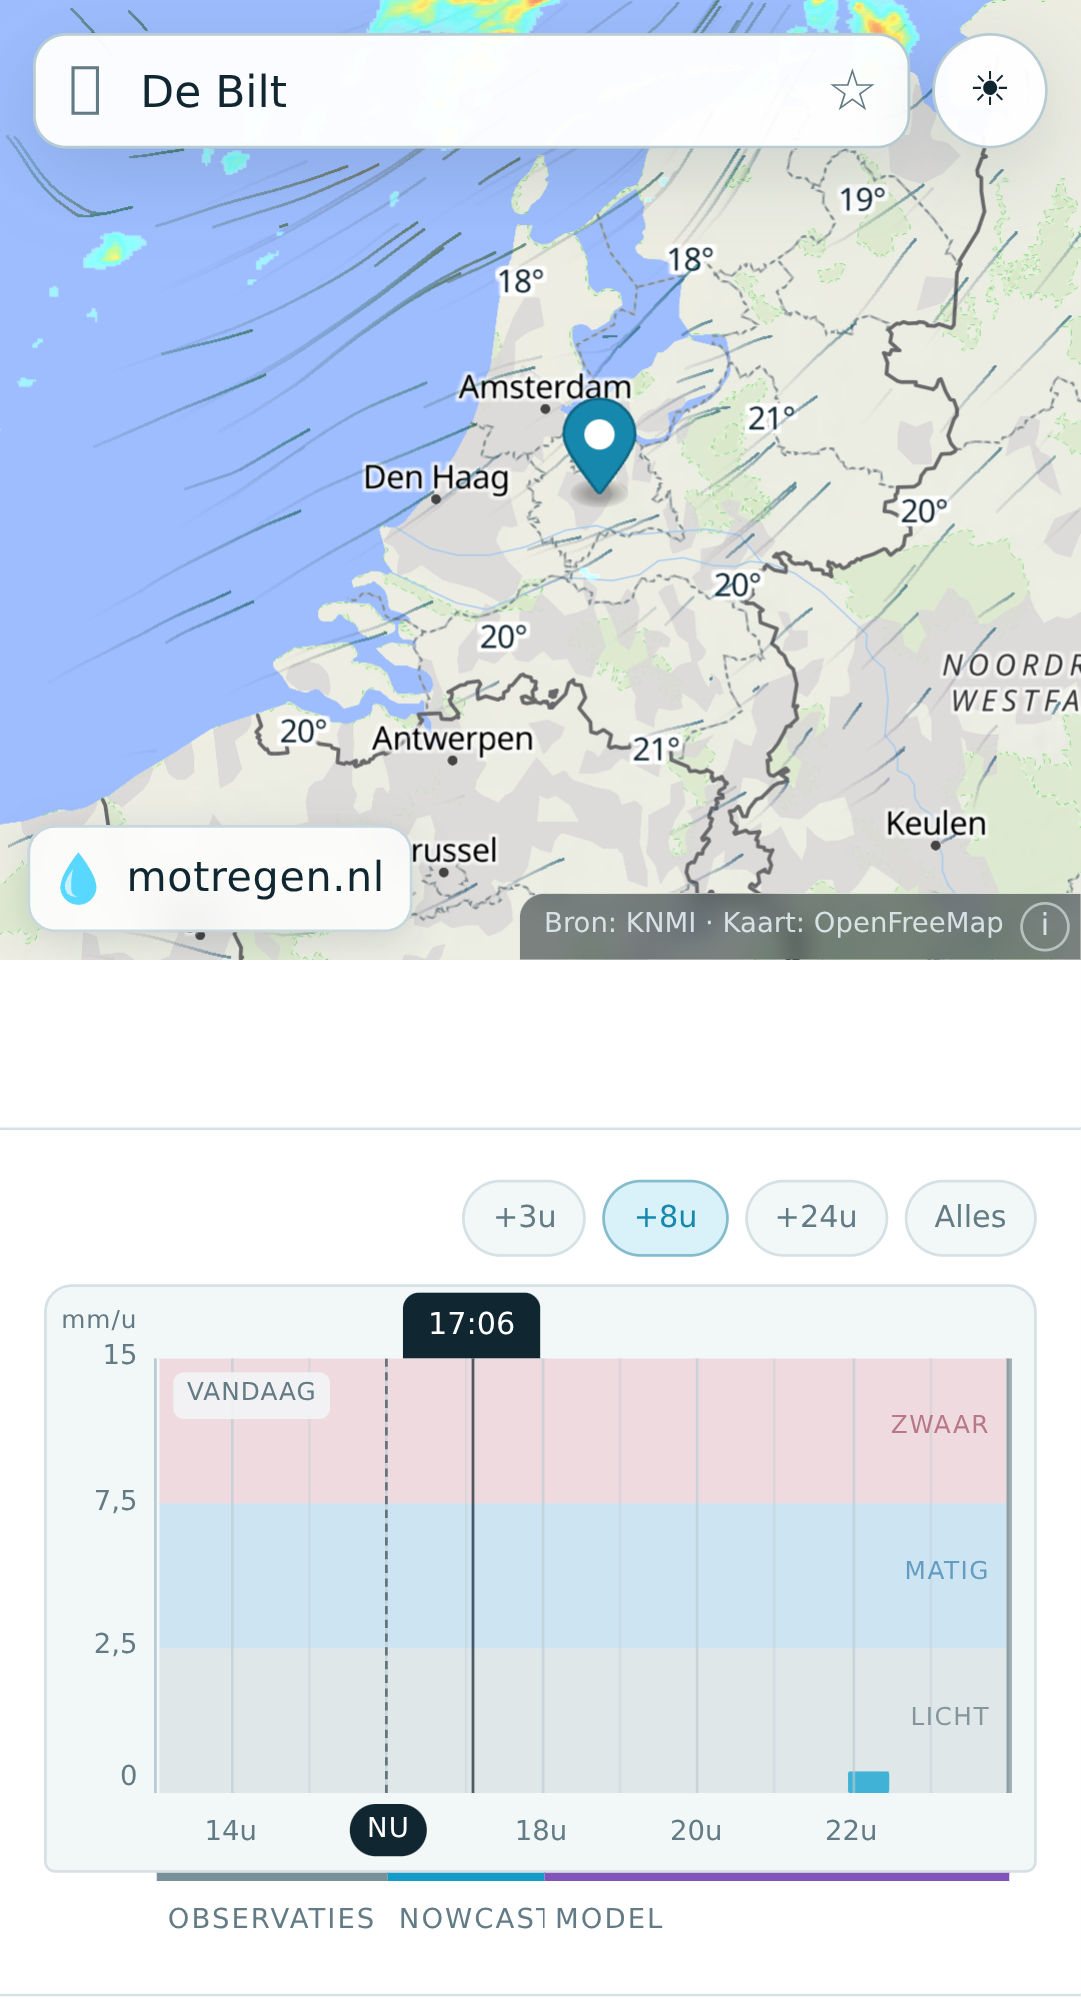
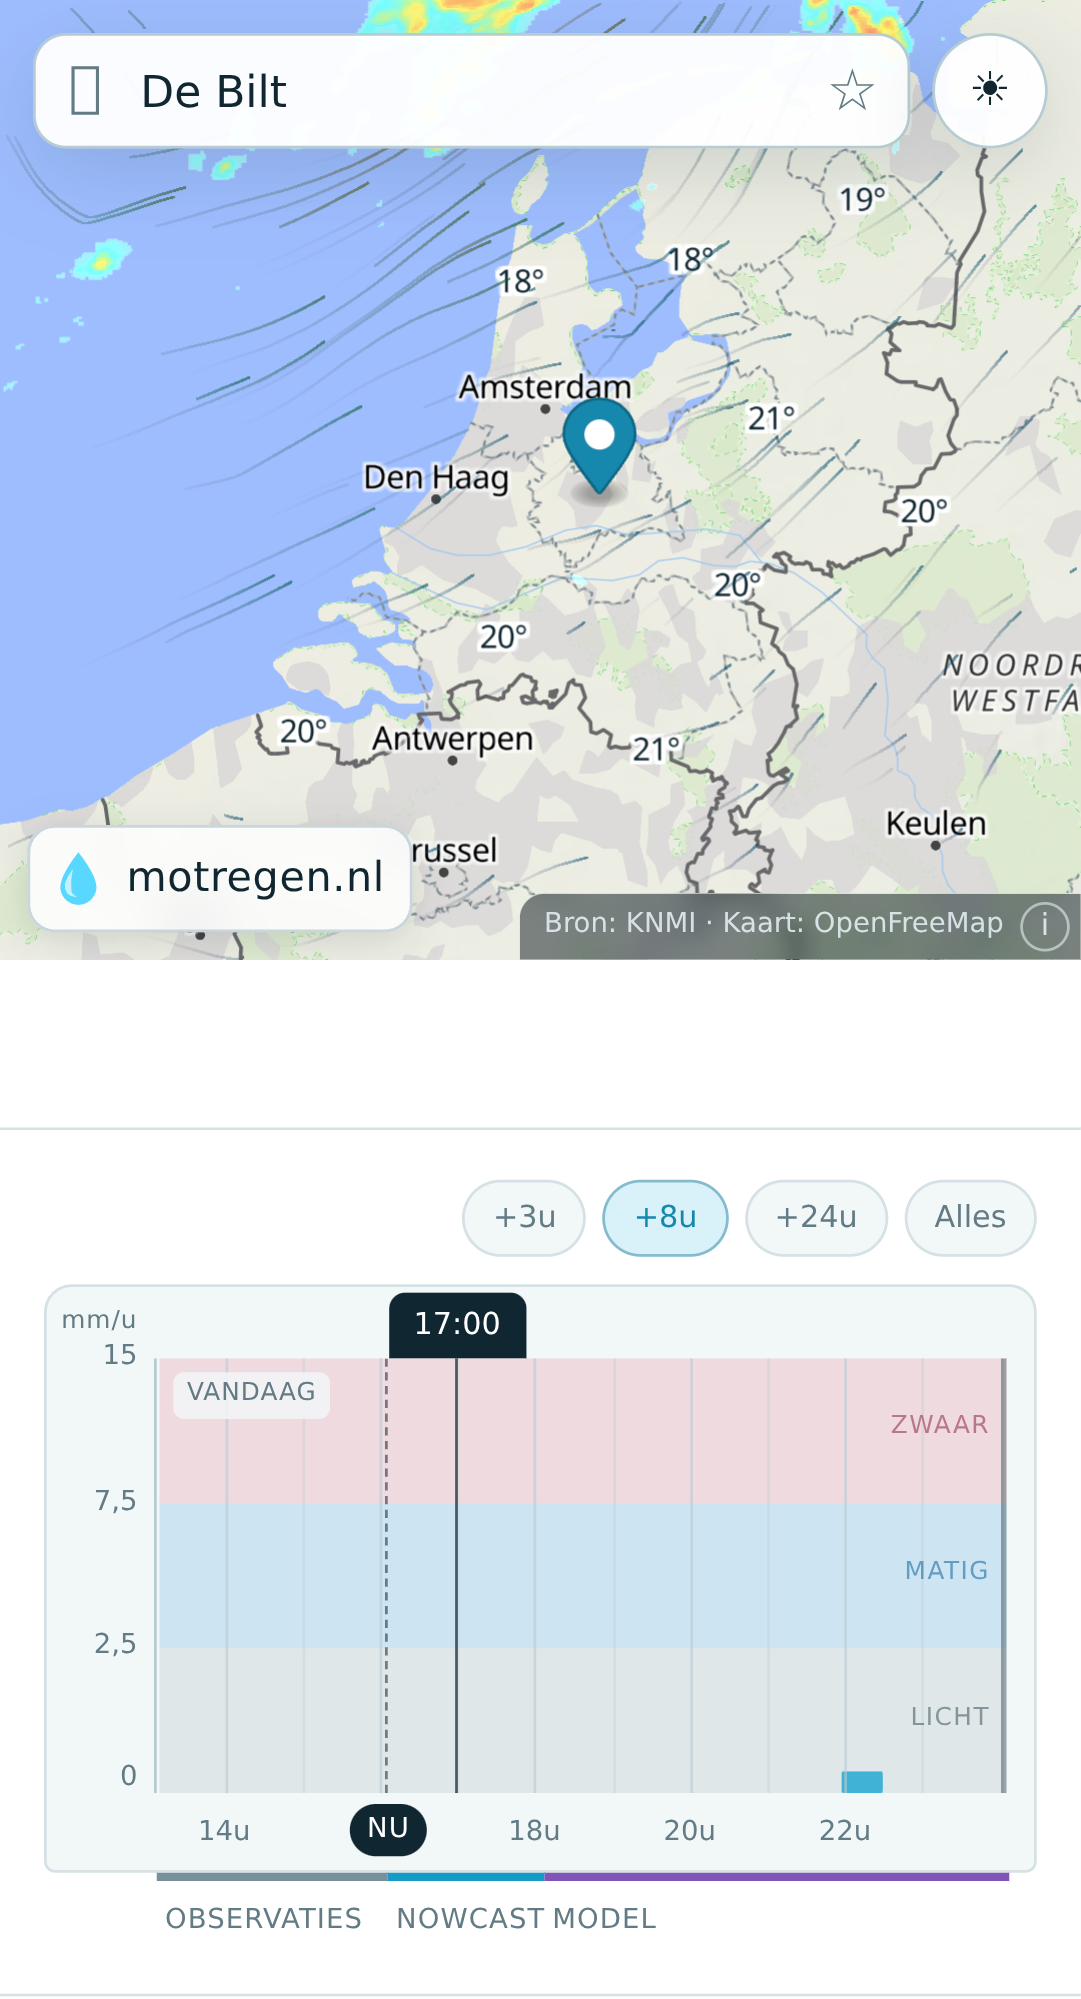
u7: LOG met diagnose, receipts, na-screenshots

diff --git a/.dev/tracks/u7-ontwerp-verfijning/LOG.md b/.dev/tracks/u7-ontwerp-verfijning/LOG.md
@@ -6,3 +6,51 @@
 - Screenshotscript: `shots.mjs` in deze map (Playwright, desktop 1440×900 + Pixel 5, nl-NL, Europe/Amsterdam). Repro vanuit `web/`: `direnv exec .. node ../.dev/tracks/u7-ontwerp-verfijning/shots.mjs <url> <prefix>`.
 - `ageq-mthq` resolvet hier naar een IPv6-adres, maar de integratie-vite luistert alleen op 100.108.127.86:4300. Vóór-screenshots daarom tegen `http://100.108.127.86:4300/` → exit 0, `shots/before-*.png`.
 - Waarnemingen vóór: (1) histogram: labels 7–9 px; x-as-labels staan ín de plot met 32 px lege strook eronder; de "Nu"-pil botst met de cursorpil; de dagchip "VANDAAG" plakt in de hoek. (2) `.source` ligt 2 px van de rand met 3 px radius, los van de kaarthoek. (5) Desktop: Groningen mist zijn temperatuur. Mobiel: alleen 6 labels in beeld.
+
+## 2026-09-23T16:00 — Punt 5: temperatuurlabels (incl. PO-aanvulling minimale dichtheid)
+
+- **Diagnose "maar 4 labels"** (meting met `labels.mjs`, telt geplaatste symbols via `queryRenderedFeatures` tegen de bronfeatures in beeld; vereist een tijdelijke dev-only `window.__map`-hook, niet gecommit):
+  (a) De set was 10 vaste steden. Op een telefoon staat op zoom 6,4 maar 6–7 ervan in beeld, en bij inzoomen (zoom 8) nog 1. Dat is het grootste deel van de klacht.
+  (b) De temperatuurlaag stond onder álle basemaptekst (t3j: vóór de eerste tekstlaag). Waternamen, POI's, dorpen en `label_other` wonnen dus de collision. Op zoom 8 in de Randstad vielen daardoor Rotterdam, Utrecht, Den Haag, Dordrecht en Gouda weg.
+- **Oplossing:**
+  - `temperaturePlaces`: 66 plaatsen in prioriteitsvolgorde. De kop dekt alle provincies, Zeeland via Middelburg. De staart vult de kust en de eilanden (Den Helder, Den Burg, West-Terschelling, Harlingen, Dokkum, Delfzijl, Hoek van Holland, IJmuiden, Vlissingen, Zierikzee, Terneuzen).
+  - `selectTemperaturePlaces(zoom, spacingPx)`: greedy Poisson-disk selectie in Web-Mercator-pixels op halve zoomstappen. Elke weggelaten kandidaat ligt binnen `spacing` van een gekozen label, dus de afstand is ook de grootste labelvrije gat. Dat is de minimale dichtheid die de PO vroeg.
+  - `TEMPERATURE_LABEL_SPACING = { viewportFraction: 1/7, minimumPx: 56, maximumPx: 96 }` → spacing = clamp(min(b,h)/7). Een vaste 84 px gaf op mobiel na U6 (overzicht zoom 5,6) maar 6 labels, desktop 15. In ?dev staat een knop "Temp-afstand" (px, overschrijft auto).
+  - `symbol-sort-key: rank`, zodat prioriteitsplaatsen binnen de laag winnen.
+  - `temperatureLayerBeforeId`: de laag komt nu vóór de eerste place-laag met town/city/state/country. Temperaturen winnen van waternamen, POI's en dorpen, maar wijken nog steeds uit voor stads-, gemeente- en regionamen (t3j-dodge blijft: overlap uit, variable anchors).
+  - Herberekening op `zoomend`.
+- **Meting na** (prod-data, na merge van main met U6 contain):
+  - desktop 1440×900: overzicht z6,96 → 12/12 geplaatst, z7,2 → 16/17, z8 → 26/27.
+  - Pixel 5: overzicht z5,59 → 11/11, z6 → 14/14, z6,6 → 15/15, z7,2 → 15/16, z8 → 7/8.
+  - Missers zijn incidenteel en wisselen per zoom (Arnhem, Utrecht, Den Haag, Venlo): alle acht ankers botsen daar met de eigen stadsnaam plus buren. Een gekozen label dat door collision wegvalt, wordt niet door een buur vervangen. Dat is een bewuste grens: de dodge heeft voorrang.
+- Tests (`temperature.test.ts`): elke kandidaat valt in precies één provincie; bij zes zoom/spacing-paren ligt geen kandidaat verder dan de spacing van een label, en onderling liggen de labels ≥ spacing uit elkaar; Zeeland altijd op het overzicht (zoom 5–7); alle provincies op zoom 7; ~10 op het overzicht voor telefoon en desktop, ≥20 ingezoomd; monotoon dichter bij inzoomen. `basemap.test.ts`: laagvolgorde.
+
+## 2026-09-23T16:30 — Punten 1–4 en 6
+
+- **1 Histogram:**
+  - Hoogte 180→214 px (desktop 196→232). Lettergroottes 7–9 → 9–11 px. Horizonknoppen 28 px hoog (touch).
+  - De x-as staat nu ónder de plot (was: erin, met 32 px dode strook). De cursorpil staat in een eigen strook boven de plot.
+  - De "Nu"-pil staat op de x-as en het uurlabel onder hem wijkt. Daardoor botst hij niet meer met de cursorpil en dekt hij geen balken meer af.
+  - `hourLabelStep`: 1/2/3/6/12/24 u zodat labels ≥ 34 px uit elkaar staan (ResizeObserver op de plot). Middernacht toont de dagafkorting ("za"). Een dagchip met minder dan 80 px ruimte tot de rechterrand verdwijnt, dus geen afgekapt "MORG…" meer. Uurlijnen zonder label zijn lichter.
+  - Balken opacity .72→.85.
+  - Vóór: `shots/before-*-scrubber.png`. Na: `after-*-scrubber.png` (prod-data, droog) en `after-synth-*-scrubber.png` (synth, met regen).
+- **2 Hoek:** `.source` ligt nu kant-en-klaar in de hoek (right/bottom 0). Radius 9 px alleen linksboven, `env(safe-area-inset-right)` in de padding, 10 px tekst. Zie `after-*-corner.png`. Onderrand-safe-area is niet nodig: op mobiel ligt de kaart niet tegen de schermonderrand.
+- **3 Splash:** de druppel veert (`translate`, zodat de bestaande `transform`-val bij ready gewoon composeert) en een rimpel spreidt waar hij neerkomt. Periode 1,6 s, CSS-only, loopt tot `.ready`. Bij `prefers-reduced-motion` geen beweging, alleen een zachte opacity-ademhaling. "Herhaal splash" en de slowdown blijven werken: animaties hangen aan `:not(.ready)`. Een stilstaand frame staat in `after-*-splash.png`; de beweging beoordeel je live.
+- **4 About:** `components/About.tsx` bevat de bronregel plus een "i"-knop (`aria-haspopup="dialog"`) en een native `<dialog>` met `showModal`. Escape is native, klikken op de backdrop sluit, de sluitknop krijgt autofocus en de focus gaat terug naar de trigger. Tekst: kernboodschap, vijf bronnen, privacyregel, link naar https://github.com/mathijshenquet/motregen. Geen externe fonts of tracking. Tailwind-preflight zette de dialog-margin op 0 (niet gecentreerd), gerepareerd met `inset:0; margin:auto`. Test: `About.test.tsx` (jsdom mist `showModal`; het open/close-contract is in de test gemodelleerd). Zie `after-*-about.png`.
+- **6 README:** Nederlands en productgericht: wat, voor wie, de vier KNMI-bronnen, de één-tijdlijn-belofte, gratis/geen reclame/open source/geen tracking, "zelf draaien" (devenv, cargo ingest, caddy, pnpm) en `docs/`. Geen `.dev/`, geen MIP's. De AROME-horizon staat er als "tot een etmaal": live eindigt de manifest ~21 u vooruit (arome-hours 24). De oude README zei "+2 dagen".
+- App.tsx-diff klein gehouden: About-import en -tag, temperatuurselectie + `zoomend` + één debugregel.
+
+## 2026-09-23T16:45 — Gates (na merge van origin/main `07cda00`)
+
+- `pnpm typecheck` → TYPECHECK-EXIT: 0
+- `pnpm test` → TEST-EXIT: 0 (29 files, 127 tests)
+- `pnpm build` → BUILD-EXIT: 0
+- `MOTREGEN_E2E_PORT=4287 MOTREGEN_E2E_DATA_PORT=8287 pnpm e2e` → E2E-EXIT: 0 (6 passed, 3 skipped). Passief Fast 3G 719.874 B ≤ 800.000, warm chunks 0 B.
+- Repro vanuit `web/` met `direnv exec ..`. Screenshots: preview met `MOTREGEN_DATA_ORIGIN=https://motregen.nl/data` (prod) of `MOTREGEN_SYNTH=1 MOTREGEN_DATA_ORIGIN=` (synth; zonder SYNTH valt `vite preview` terug op de dev-proxy naar :8080). Daarna `shots.mjs`; `CLICK="440,330;140,125"` kiest op synth een plek in de bui.
+
+## Open
+
+- **MET PO — LICENSE:** er is geen LICENSE-bestand, terwijl README en About "open source" beloven. Kies een licentie (bv. MIT/Apache-2.0 voor code; let op ODbL voor eventuele OSM-afgeleide data). Ik heb er bewust geen gekozen.
+- MET PO, op zicht: de splashbeweging (live bekijken), de labeldichtheid (`?dev` → "Temp-afstand"), en of temperaturen boven dorpen/waternamen mogen winnen.
+- Gezien, niet van deze track: op mobiel staat onder de kaart een lege witte band van ~60 px vóór het histogram (ook in `before-pixel5-page.png`, waarschijnlijk een leeg `current-weather`-blok).
+- Klein: op mobiel bij stap 2 u verdwijnen beide uurlabels naast "Nu" (< 30 px). Aanvaardbaar, maar de linkerkant van de as kan dan leeg ogen.
